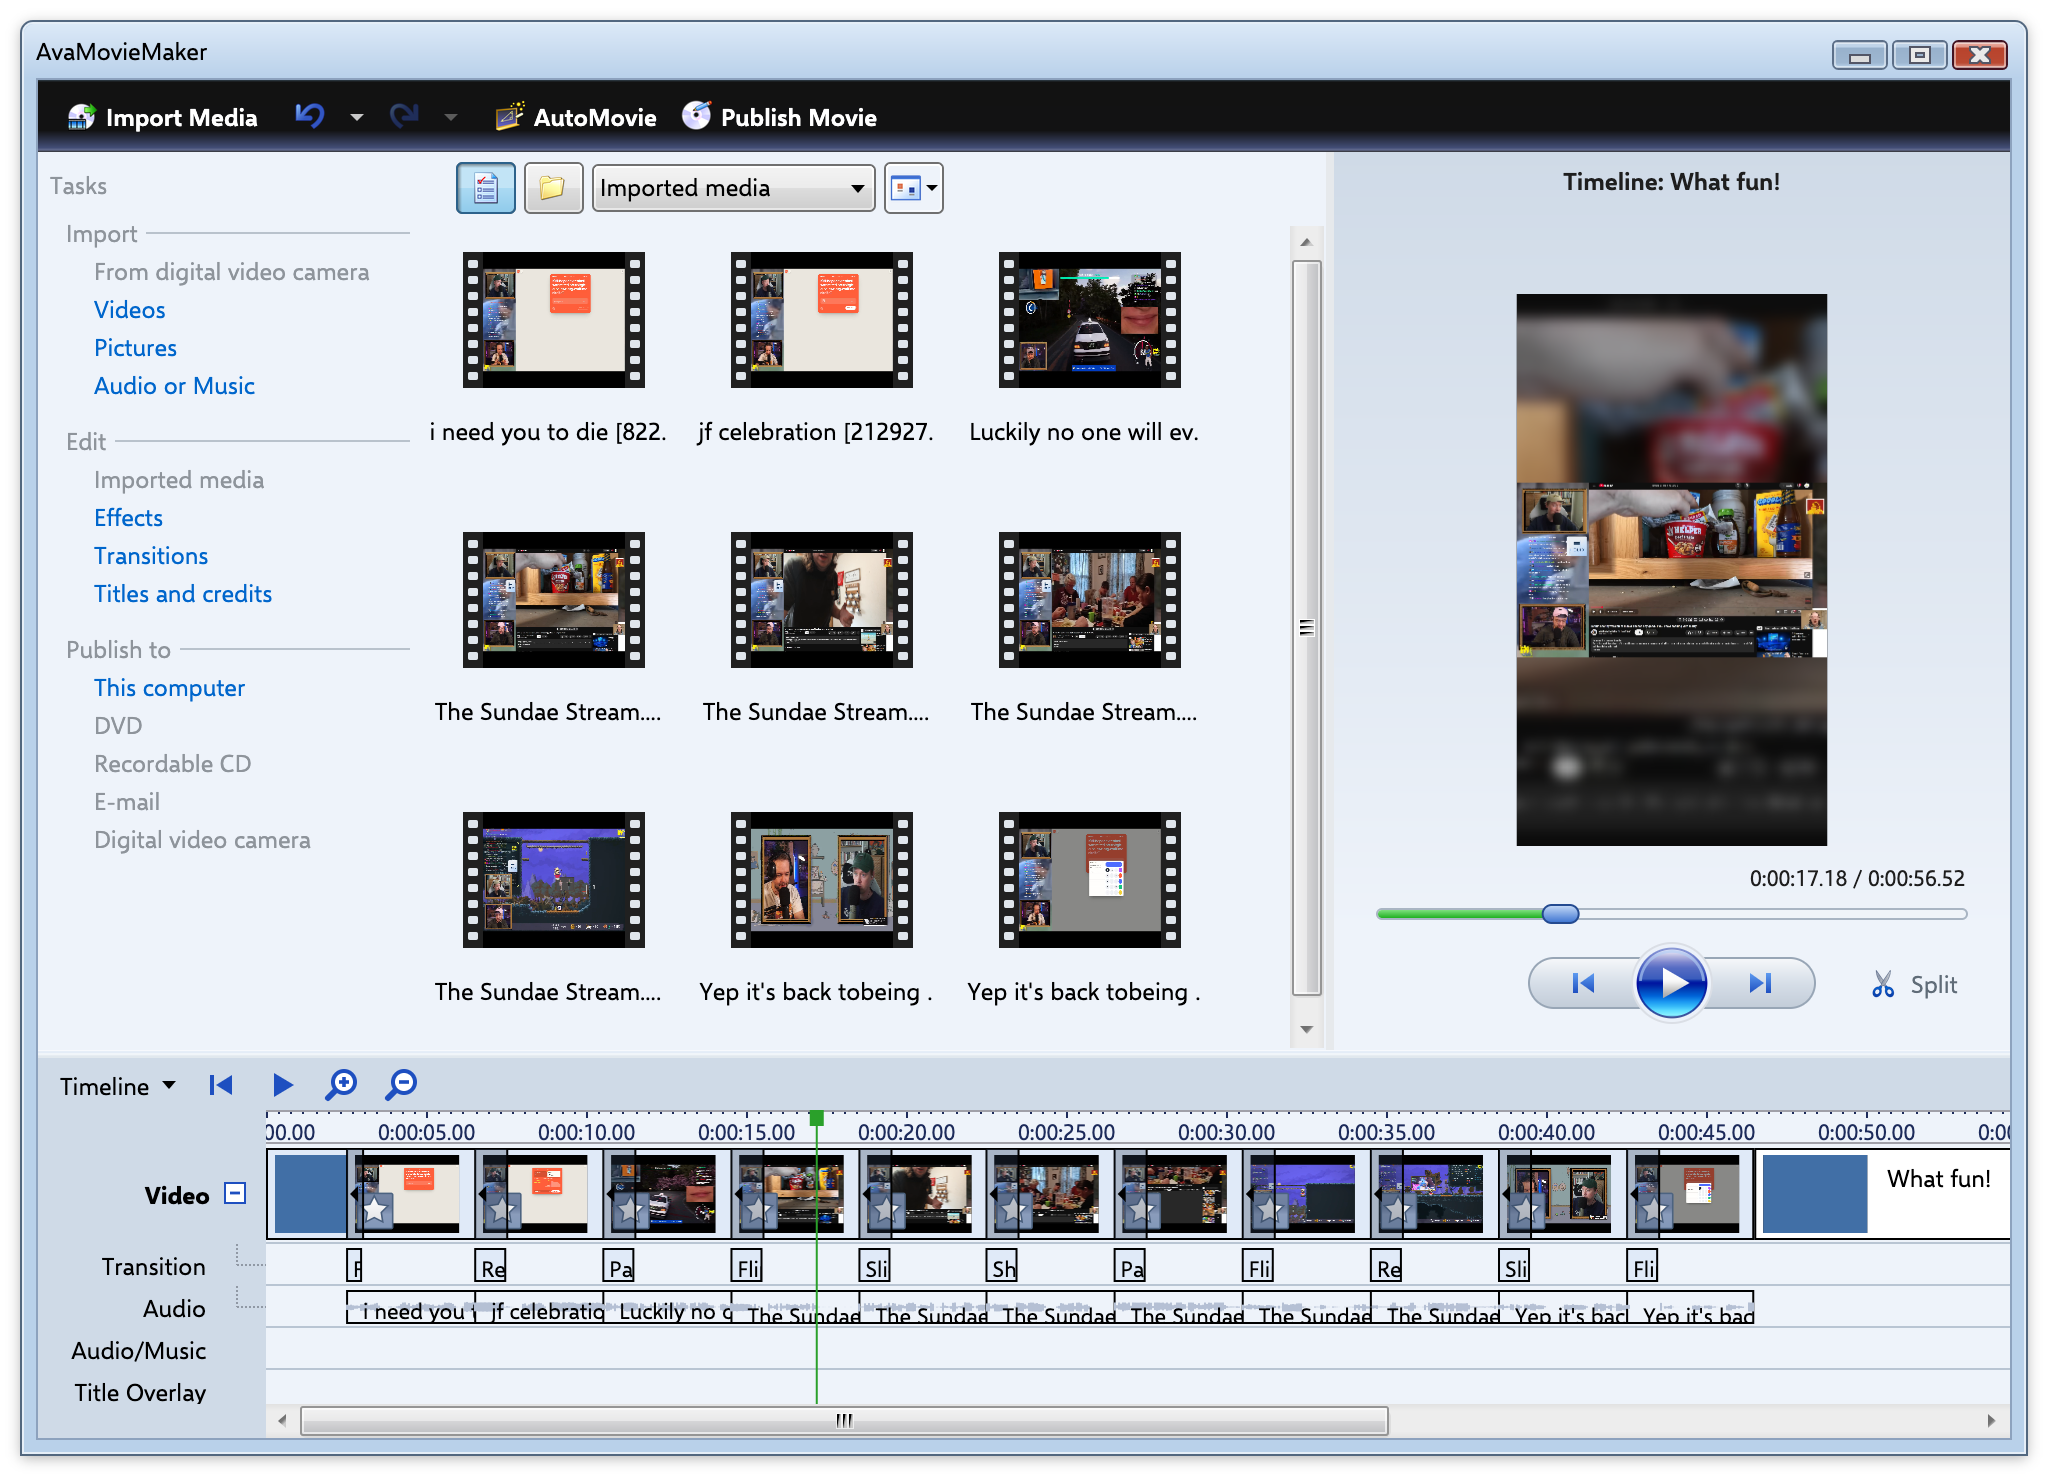
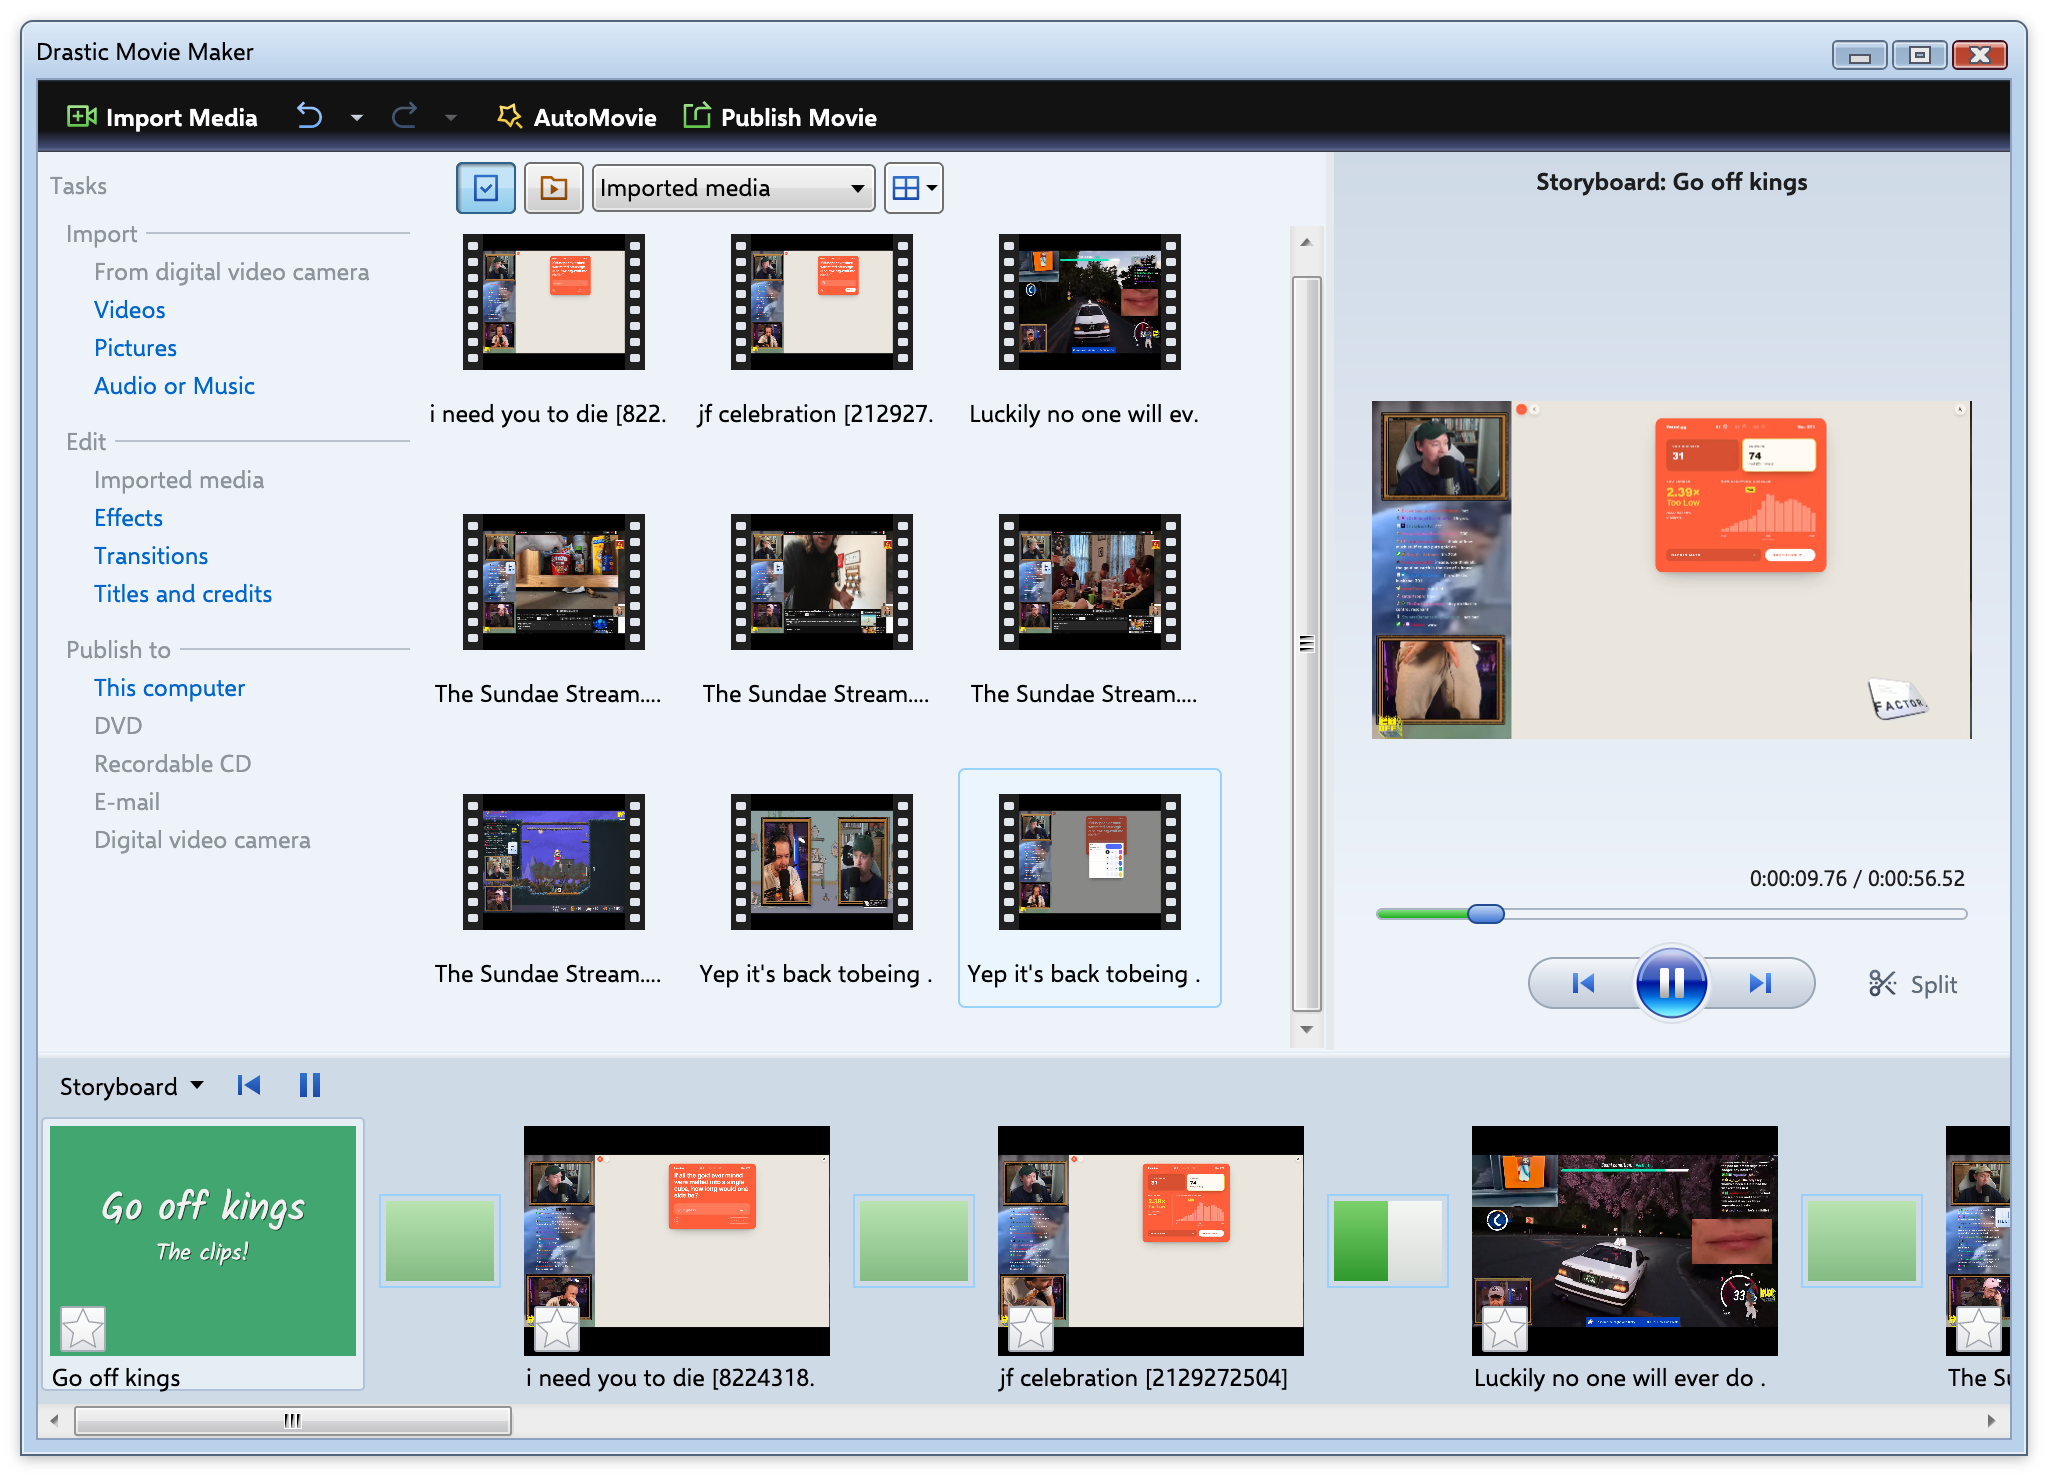
Update README

diff --git a/README.md b/README.md
@@ -4,9 +4,29 @@ Drastic Movie Maker is an experimental video editor, written in .NET with Avalon
 
 ![macOS UI Screenshot](assets/screenshot.png)
 
-There are tons of video editing software out there, but they are mostly aimed at "content creators" with tons of features I don't need. Windows Movie Maker let you drag clips into a timeline and make a video, which is all I need. It was also a good way for me to try writing Skia filters and fix issues in [AvaWpf](https://github.com/drasticactions/AvaWpf).
+There are tons of video editing software out there, but they are mostly aimed at "content creators" with tons of features I don't need. Windows Movie Maker let you drag clips into a timeline and make a video, which is all I need. It was also a good way for me to try writing Skia filters and fix issues in [AvaWpf](https://github.com/drasticactions/AvaWpf). Basically, I wanted a video editor I could use.
 
-While I tried to match the features within the later versions of Windows Movie Maker, it's _not_ a "Clean-Room Reimplmentation." It's mostly me eye-balling it and trying to match what the UI and features do. I did try to compare it with running similar clips in Windows Movie Maker to guess what it does, but don't assume it will match it. I'm not strictly trying to.
+Drastic Movie Maker supports:
+
+- Storyboard and timeline editing
+- Drag and drop effects and transitions
+- Various aspect ratios, including support for newer "Social Media" ratios
+- Saving the video
+- Windows Movie Maker-style "AutoMovie" generation, where you add clips and some preset styles to create a movie.
+
+The application and in-app icons are from [RemixIcon](https://remixicon.com).
+
+## License
+
+This project is released under the GPL-3.0-or-later license, see [LICENSE.md](LICENSE.md).
+
+This project also includes various third-party libraries and dependencies, see [THIRD-PARTY-NOTICES.md](THIRD-PARTY-NOTICES.md).
+
+## Implementation
+
+While I tried to match the features within the later versions of Windows Movie Maker, it's _not_ a "Clean-Room Reimplmentation." It's mostly me eye-balling it and trying to match what the UI and features do. For AutoMovie, I used their descriptions and tried to create a similar algorithm to what their descriptions and generated movies were. 
+
+I did try to compare it with running similar clips in Windows Movie Maker to guess what it does, but don't assume it will match it. I'm not strictly trying to match it one-to-one.
 
 # macOS Gatekeeper
 
@@ -25,3 +45,19 @@ I did use LLMs while working on this project.
 - I wrote the majority of the backend and frontend code as I went. Some of it was edited or added by Claude while debugging through it, which I either accepted and didn't change, accepted and did change, or ignored and rewrote.
 - The GitHub Actions and ffmpeg build scripts were generated via Claude.
 
+The purpose of this project was because I wanted to make it and write code, and offload things like scripts that I was okay having generated.
+
+## Support
+
+Issues and PRs are welcome, but note that this is a hobby project for me so new updates will be mostly limited. If you wish to file an issue, please don't use an LLM to do it. Likewise, any PR using LLMs will be rejected. If I want an LLM to write the code, I could do it myself. And also, this is ment to be fun.
+
+## Build
+
+To build the project, you need to build ffmpeg for the given platform using the provided scripts in [tools/ffmpeg](tools/ffmpeg/), or your own system build.
+
+Otherwise, you should be able to:
+
+- Install .NET 10
+- Run the package scripts in [tools/](tools/)
+
+Or run `dotnet run` in [src/AvaMovieMaker/](src/AvaMovieMaker)
